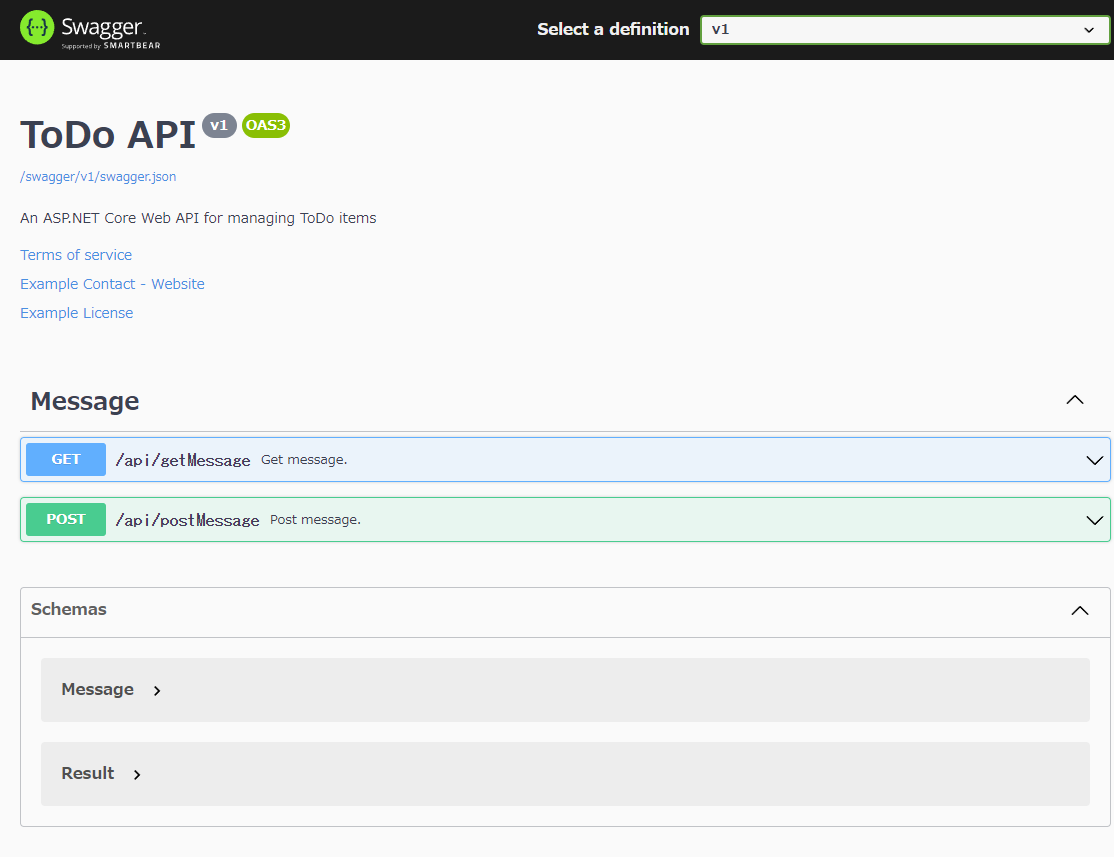
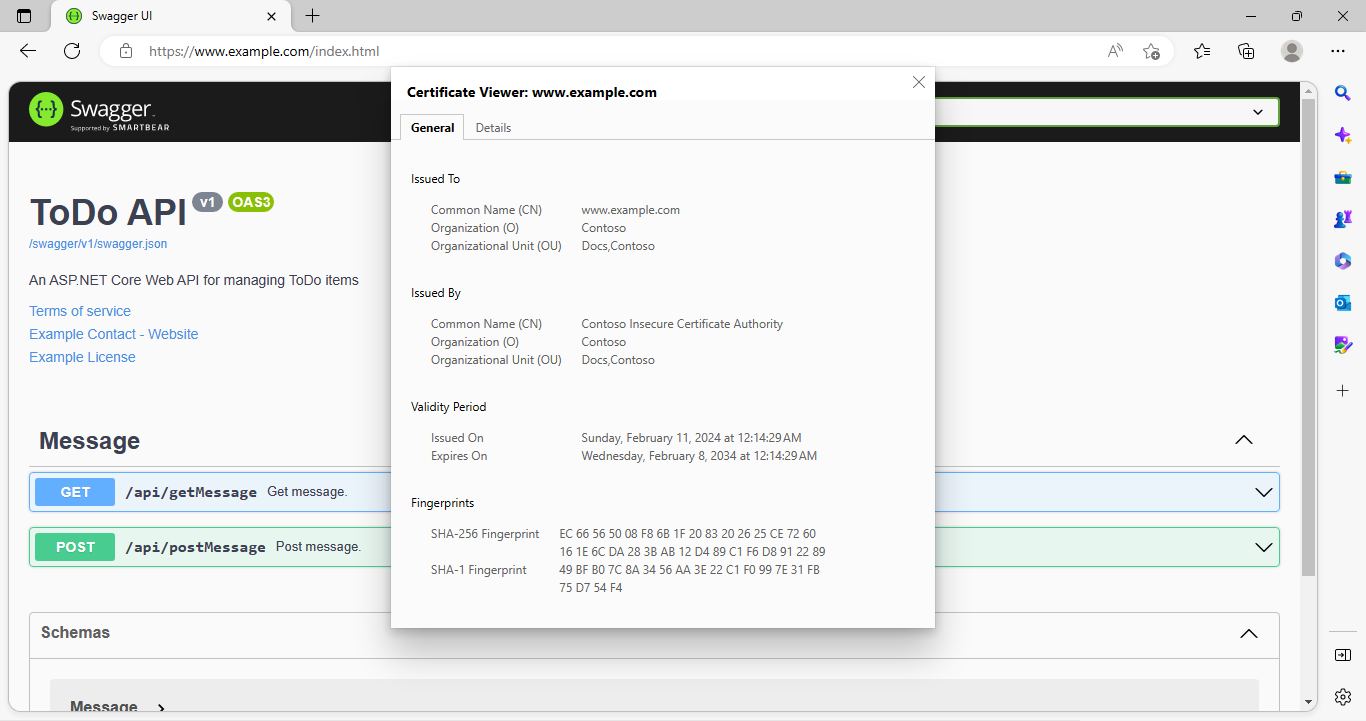
fix

diff --git a/ASP.NET/10_Swagger-with-ssl/README.md b/ASP.NET/10_Swagger-with-ssl/README.md
@@ -1,14 +1,18 @@
-# Simple WebAPI (with Swagger)
+# Secured Swagger WebAPI (with self signed certificate)
 
 ## Abstracts
 
 * How to create simple web api by using Swagger
-* You can change property name of model by using `JsonPropertyName`
-* You can generate api comments by using xml document
+* Hwo to use self signed certificate on ASP.NET
 
 ## Requirements
 
-* .NET 6.0 SDK
+* .NET 8.0 SDK
+
+## Dependencies
+
+* [Swashbuckle.AspNetCore](https://github.com/domaindrivendev/Swashbuckle.AspNetCore)
+  * MIT license
 
 ## How to use?
 
@@ -30,8 +34,14 @@ root "信頼されたルート証明機関"
 CertUtil: -addstore コマンドは正常に完了しました。
 ````
 
-Lastly, run following command to run server
+Then, modify `hosts` file. Speficy localhost ip address and binds it and your domain.
+For example,
 
+````txt
+127.0.0.1 www.example.com
+````
+
+Lastly, run following command to run server
 
 ````powershell
 $ dotnet run -c Release
